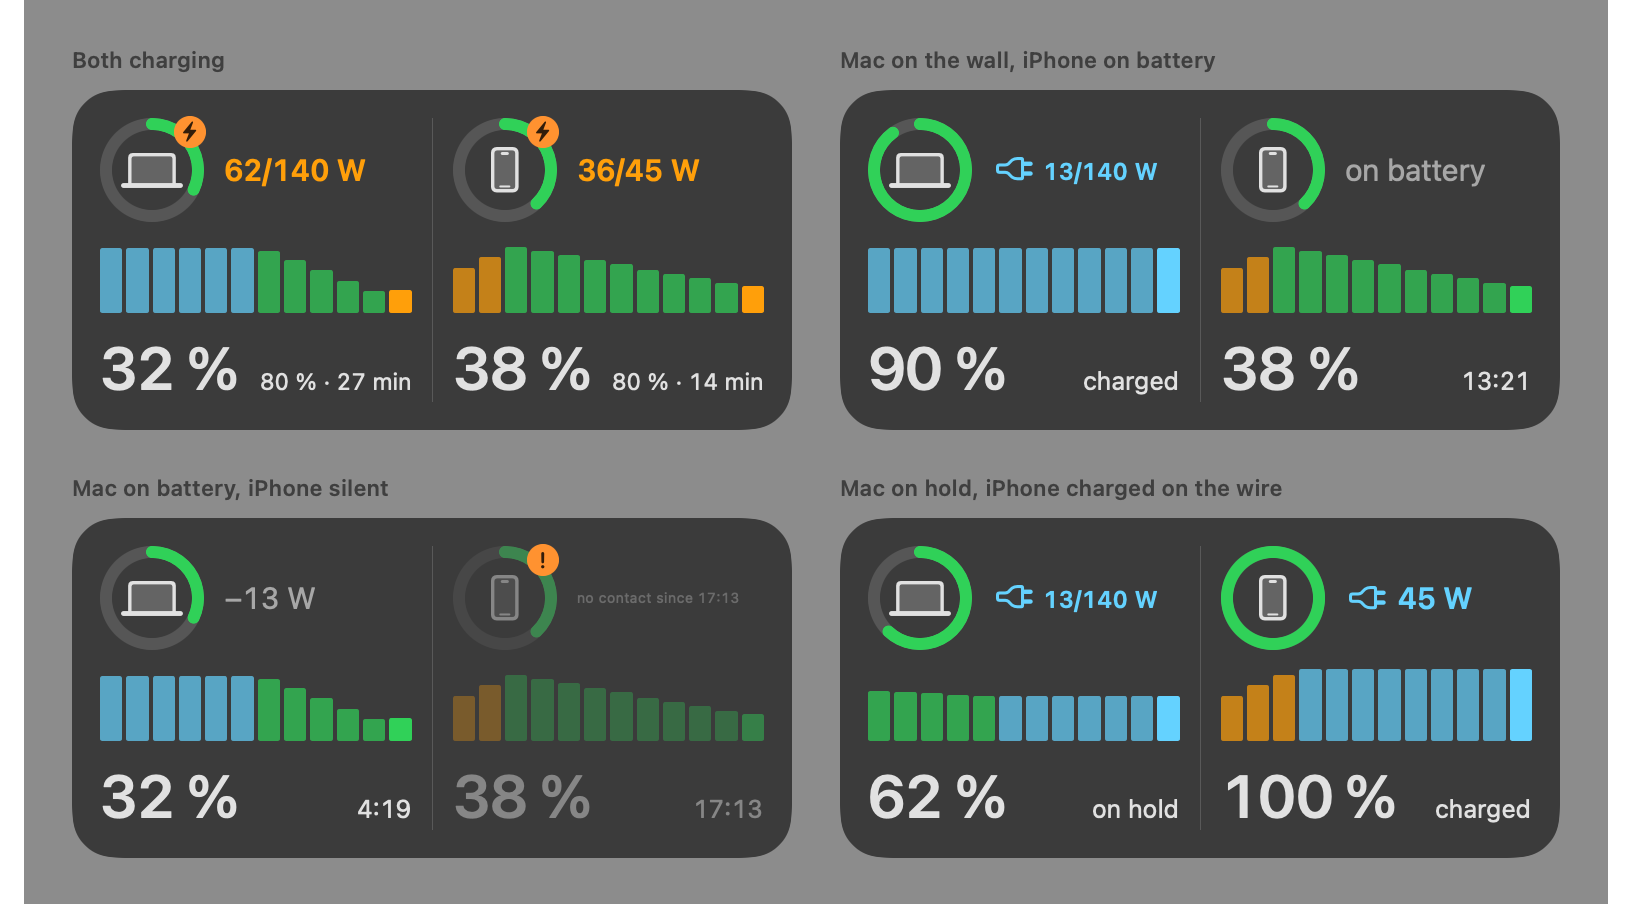
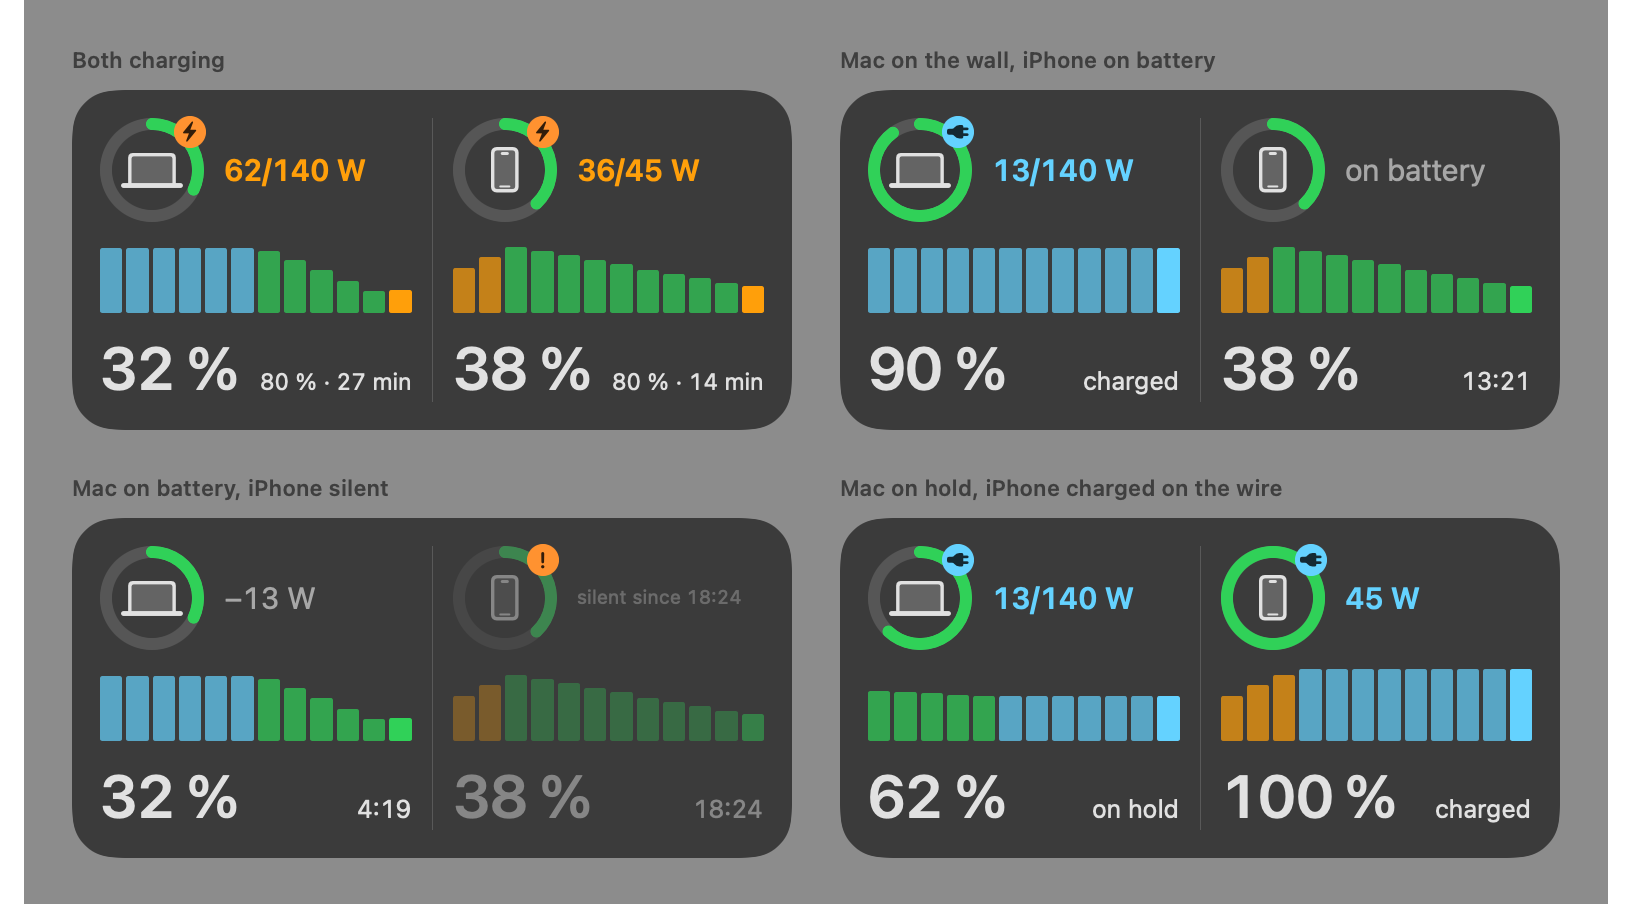
Medium widget: plug as a blue ring badge, power line at full 15 pt, shorter silent-phone line (1.3.2)

diff --git a/TandemApp/Sources/TandemWidget/MediumWidgetView.swift b/TandemApp/Sources/TandemWidget/MediumWidgetView.swift
@@ -83,6 +83,11 @@ struct DeviceTile: View {
                 RingBadge(symbol: "exclamationmark", diameter: 16).offset(x: 1, y: -1)
             } else if device.isCharging {
                 RingBadge(symbol: "bolt.fill", diameter: 16).offset(x: 1, y: -1)
+            } else if device.showsPlugGlyph {
+                // Mains without charging: the plug lives on the ring like the
+                // bolt does, so the power line beside it stays a bare number
+                // that fits at full size.
+                RingBadge(symbol: "powerplug.fill", diameter: 16, tint: BarPalette.plugged).offset(x: 1, y: -1)
             }
         }
     }
@@ -98,11 +103,10 @@ struct DeviceTile: View {
                 .monospacedDigit()
                 .foregroundStyle(Self.style(device.topKind))
                 .lineLimit(1)
-                // "no contact since 14:32" is the longest line the tile ever
-                // holds and it has to survive beside a 52 pt ring in half of a
-                // 344 pt widget — about 95 pt. Hence a floor low enough for
-                // that one string; nothing else comes close to needing it.
-                .minimumScaleFactor(0.45)
+                // Only "no contact since 14:32" ever needs to shrink; every
+                // power line fits at full size beside the ring, and the user
+                // wants those read at the size the mock-up says.
+                .minimumScaleFactor(device.topKind == .plain ? 0.6 : 1.0)
                 .fixedSize(horizontal: false, vertical: true)
         }
     }
@@ -125,7 +129,8 @@ struct DeviceTile: View {
     /// One `Text`, so the glyph and the number scale together under
     /// `minimumScaleFactor` instead of drifting apart.
     private static func label(_ text: String, plug: Bool) -> Text {
-        plug ? Text(Image(systemName: "powerplug")) + Text(" \(text)") : Text(text)
+        // The plug moved onto the ring as a badge; the line is text only.
+        Text(text)
     }
 
     /// Percent big at the left; the one status baseline-aligned with it at the

diff --git a/TandemApp/Sources/TandemWidget/RingView.swift b/TandemApp/Sources/TandemWidget/RingView.swift
@@ -39,10 +39,13 @@ struct RingView: View {
 struct RingBadge: View {
     let symbol: String
     var diameter: CGFloat = 18
+    /// Orange for charging and stale; the plug badge takes the mains blue so
+    /// the three badges read as three different states at a glance.
+    var tint: Color = .orange
 
     var body: some View {
         ZStack {
-            Circle().fill(Color.orange)
+            Circle().fill(tint)
             Image(systemName: symbol)
                 .font(.system(size: diameter * 0.55, weight: .bold))
                 .foregroundStyle(Color.black.opacity(0.8))

diff --git a/TandemApp/Sources/TandemWidget/DevicePresentation.swift b/TandemApp/Sources/TandemWidget/DevicePresentation.swift
@@ -293,7 +293,7 @@ struct DevicePresentation {
     /// against a clock and "12 min" goes stale the moment it is drawn.
     static func noContactText(_ date: Date) -> String {
         String(
-            format: String(localized: "no contact since %@",
+            format: String(localized: "silent since %@",
                            comment: "Widget: the device stopped reporting; %@ is a short time of day."),
             clock(date)
         )
